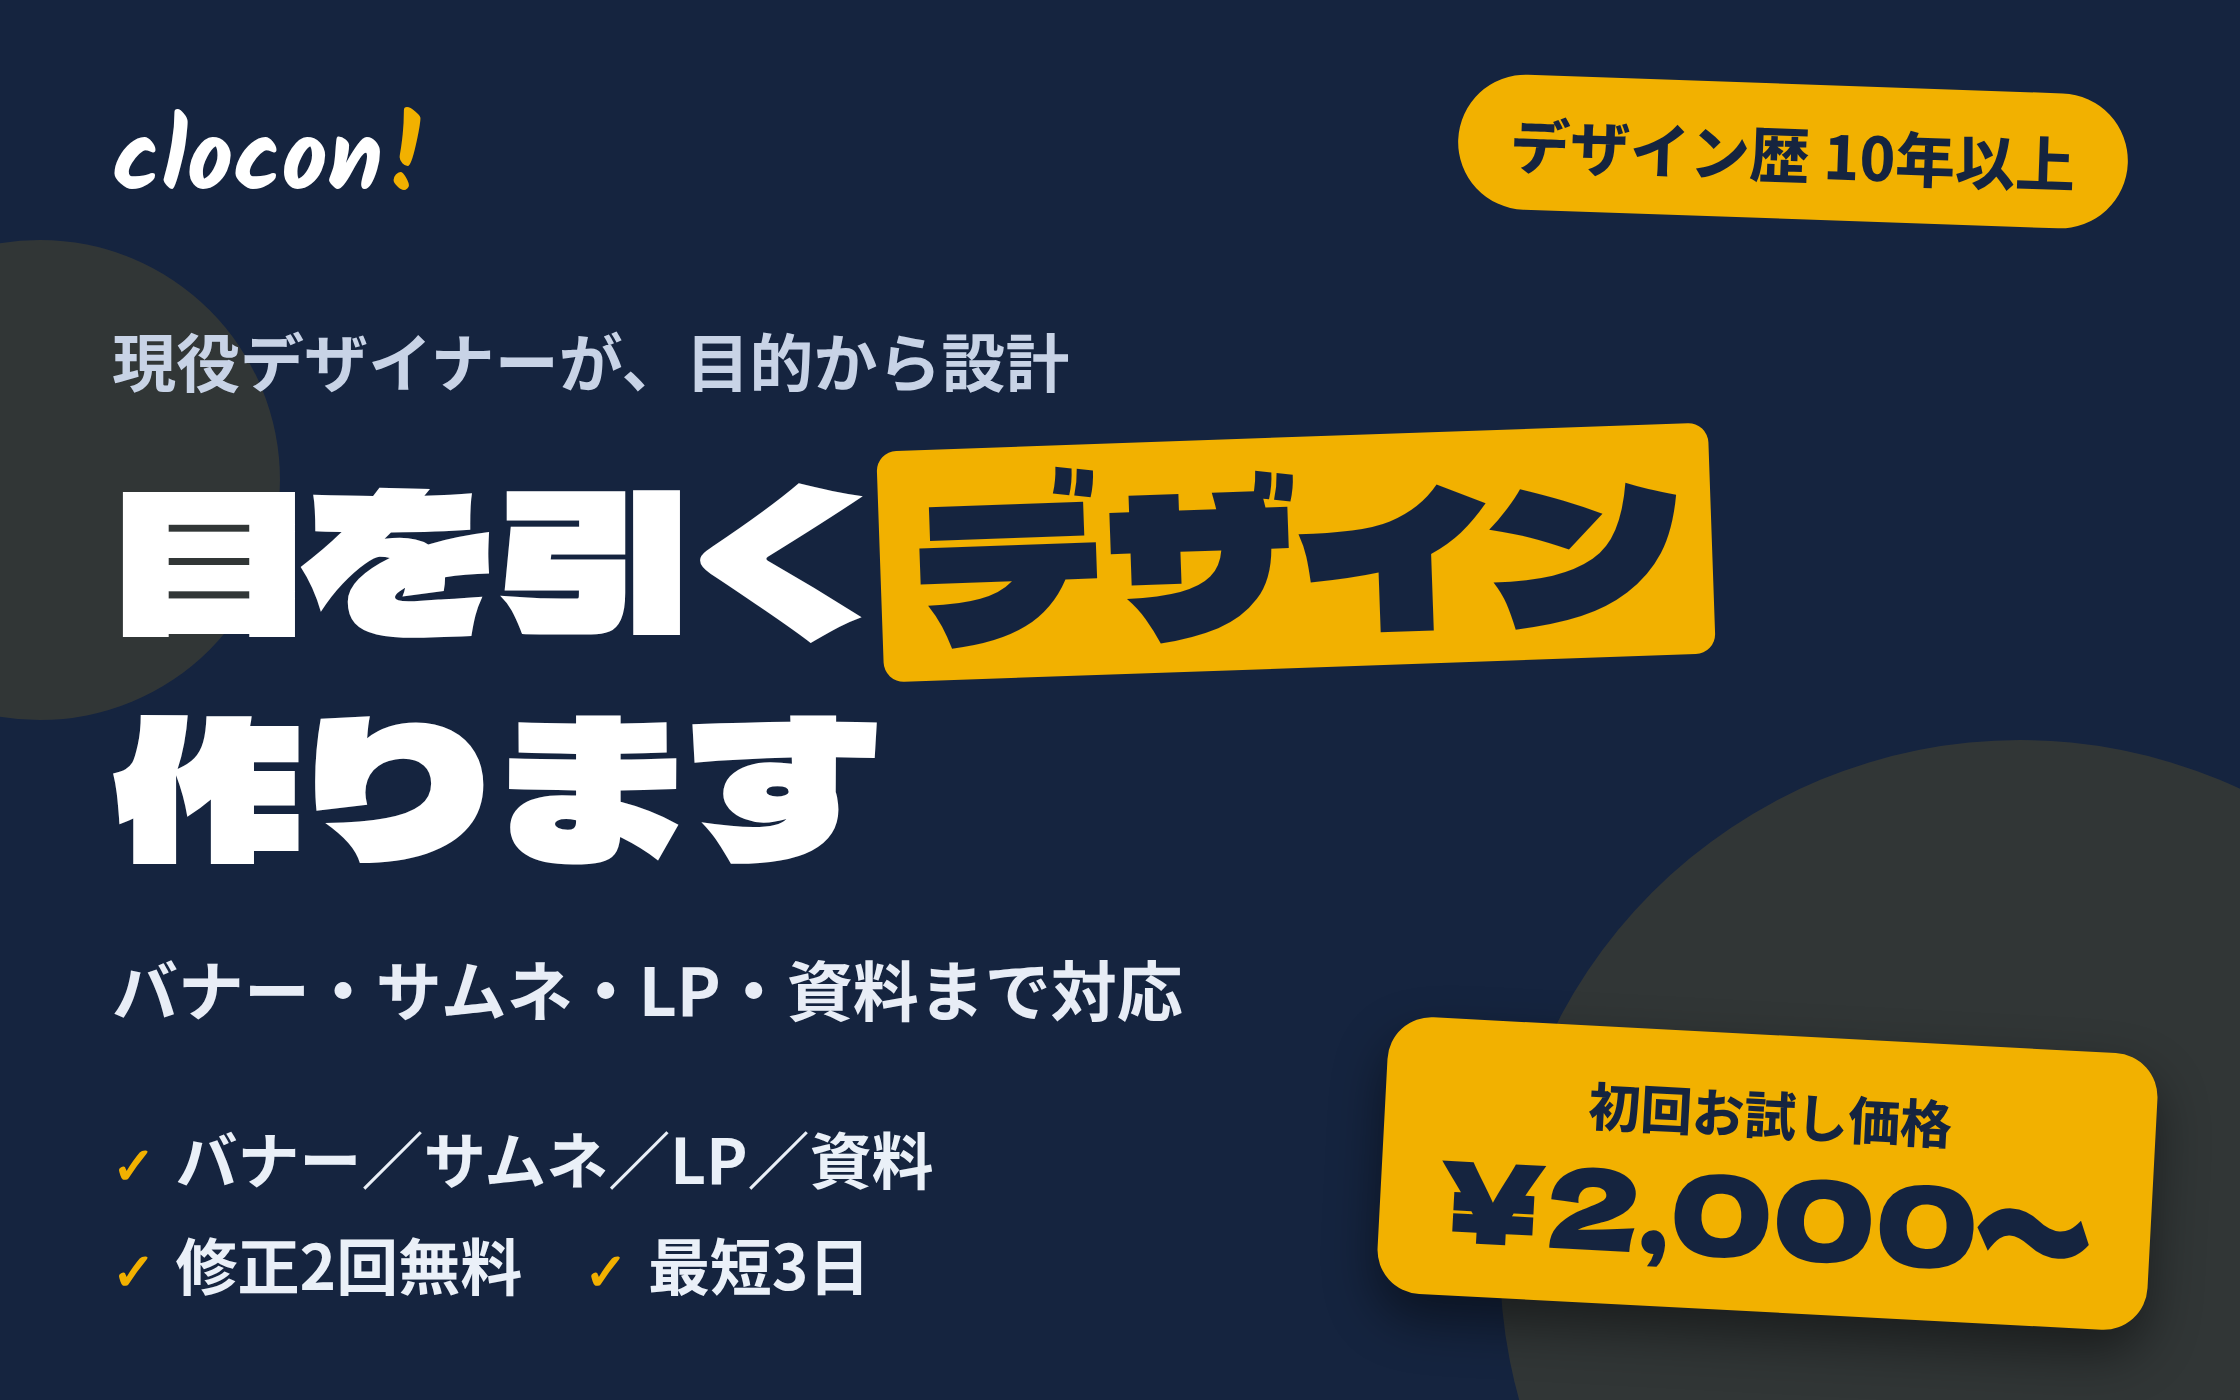
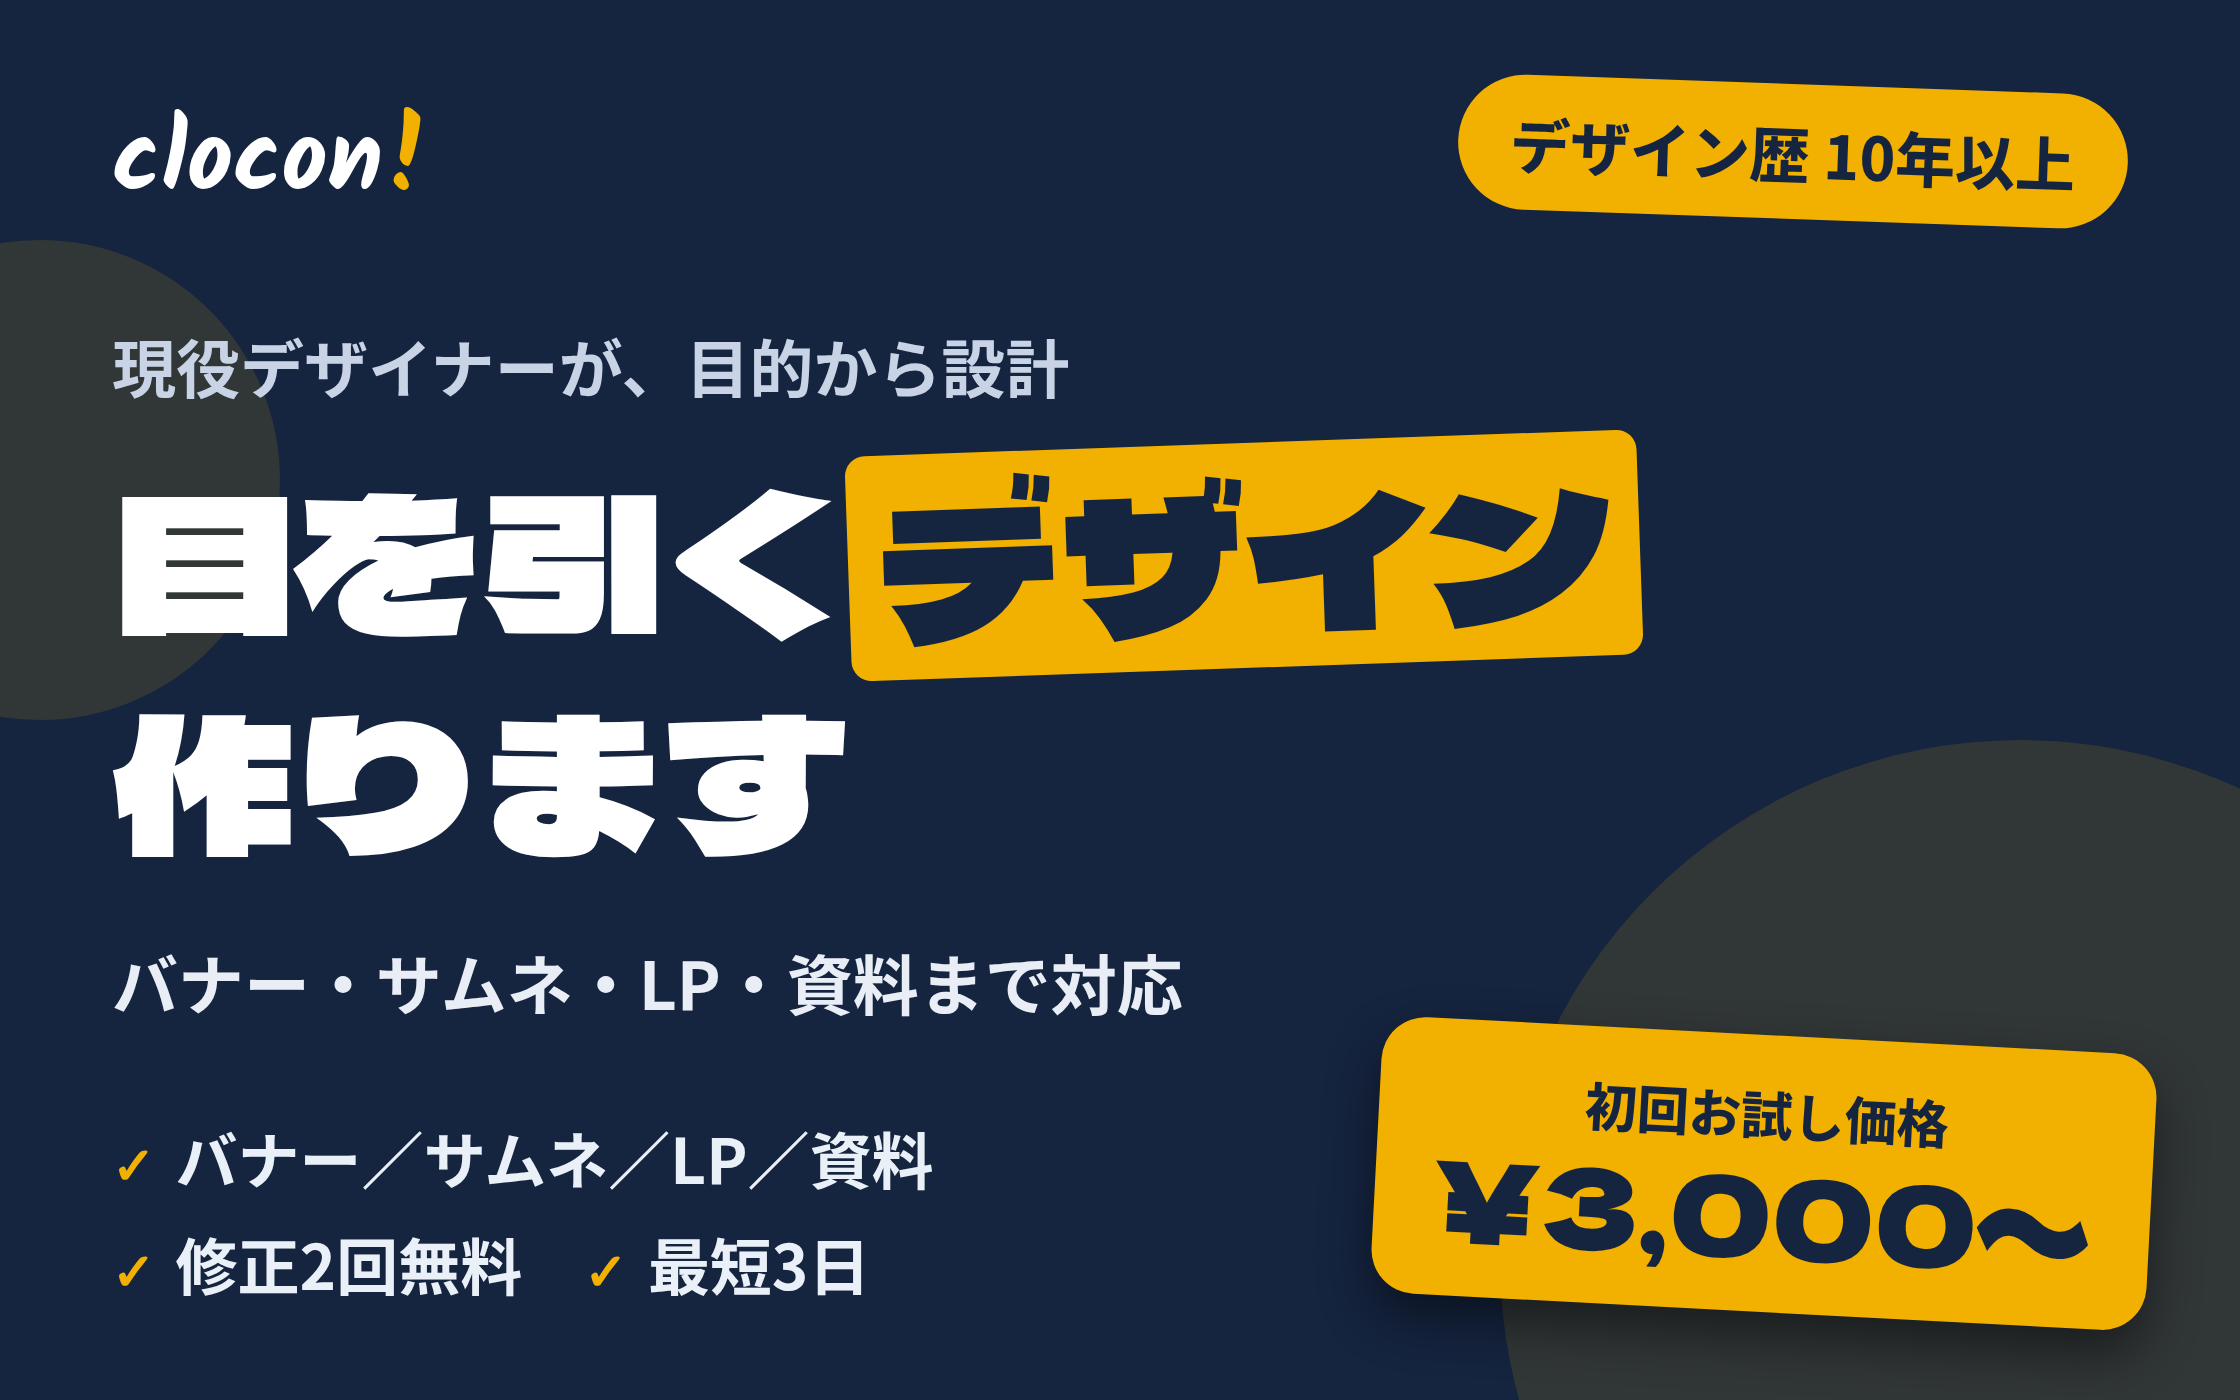
価格をココナラ最低価格3,000円に統一（お試し価格）
- docs/03: 応募書類/プロフィール/デザインのフェーズ1価格を3,000円に修正
- docs/06: フェーズ1のお試し価格表記を各3,000円に修正
- brand/thumbs: 応募書類・プロフィール・デザインのサムネ価格を¥3,000に更新

Claude-Session: https://claude.ai/code/session_01PbUKdFQ3imBhsvC9JYnfym

diff --git a/docs/03_商品ラインナップと価格.md b/docs/03_商品ラインナップと価格.md
@@ -16,14 +16,14 @@
 ### ★商品①：応募書類（職務経歴書・ES・自己PR）作成／添削 ── 主砲・最優先
 | 項目 | フェーズ1 | フェーズ2 |
 |---|---|---|
-| 価格 | 2,000円 | 4,000〜5,000円 |
+| 価格 | 3,000円 | 5,000〜6,000円 |
 | 納期 | 2日 | 2日 |
 - 悩みが深く即決されやすい。序盤の評価集めの中心。**最初に出品するのはこれ。**
 
 ### 商品②：プロフィール文・自己紹介・ビジネス紹介文作成
 | 項目 | フェーズ1 | フェーズ2 |
 |---|---|---|
-| 価格 | 1,500円 | 3,000円 |
+| 価格 | 3,000円 | 4,000円 |
 | 納期 | 2日 | 2日 |
 - 短納期・量産可。記事より競合が薄く、★稼ぎに有効。※マッチング用途は規約に注意し、ビジネス系に限定。
 
@@ -34,7 +34,7 @@
 ### ★商品③：WEBデザイン制作（バナー・サムネ・LP・資料デザイン） ── 信頼と単価の柱
 | 項目 | フェーズ1 | フェーズ2 |
 |---|---|---|
-| バナー・サムネ | 2,000〜3,000円 | 5,000〜10,000円 |
+| バナー・サムネ | 3,000円〜 | 5,000〜10,000円 |
 | 資料デザイン | 5,000円 | 12,000〜25,000円 |
 | LPデザイン | 15,000円 | 30,000〜60,000円 |
 | 納期 | 3〜4日 | 3〜4日 |

diff --git a/docs/06_30万到達ロードマップ.md b/docs/06_30万到達ロードマップ.md
@@ -21,7 +21,7 @@
 
 ## フェーズ1：実績ゼロ突破（2〜4週目）
 **目的＝「数」より「評価」。安くても良いので★を集める。主砲は応募書類。**
-- お試し価格で出品（応募書類2,000円／プロフィール文1,500円）
+- お試し価格で出品（各3,000円＝ココナラ最低価格）
 - 問い合わせは即日返信（反応速度が成約率を最も左右する）
 - 納品は丁寧＋気持ち早め → 高評価を取りに行く
 - 目標：**評価5件・星4.8以上**
